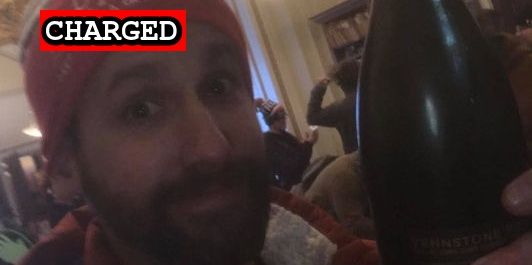
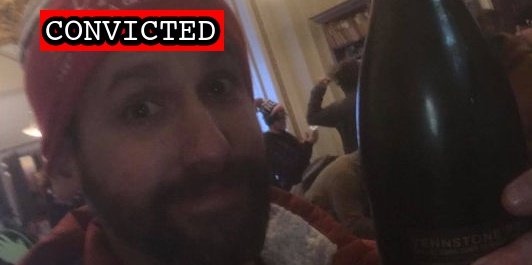
Add latest plea and sentencing

Changed region(s): [[0.0602, 0.0302, 0.4211, 0.2113]]

diff --git a/commands/suspect-sentence.ts b/commands/suspect-sentence.ts
@@ -23,6 +23,7 @@ const sentence = async () => {
   suspect.status = "Sentenced";
   suspect.sentencing = cmd.date;
   suspect.sentenced = cmd.date;
+  suspect.sentence = ["$500 restitution"];
 
   updateSuspect(suspect);
 

diff --git a/docs/_suspects/jason-riddle.md b/docs/_suspects/jason-riddle.md
@@ -4,16 +4,16 @@ lastName: Riddle
 hashtag: JasonRiddle
 aka:
 residence: New Hampshire
-status: Charged
+status: Convicted
 date: 2021-02-05
 charged: 2021-02-05
 indicted:
-convicted: 
-sentenced: 
-dismissed: 
+convicted: 2021-11-18
+sentenced:
+dismissed:
 deceased:
-plea_hearing:
-sentencing:
+plea_hearing: 2021-11-18
+sentencing: 2022-02-17
 age: 32
 occupation: Letter Carrier, Corrections Officer (Former)
 affiliations: U.S military, Federal Government
@@ -34,8 +34,17 @@ published: true
 caseNumber: 1:21-cr-304
 videos:
 charges:
+  - code: 18 USC § 5104(e)(2)(G)
+    title: Parading, demonstrating or picketing in a Capitol building
+    url: https://www.law.cornell.edu/uscode/text/40/5104
+    felony: false
+  - code: 18 USC § 641
+    title: Theft of Government Property
+    url: https://www.law.cornell.edu/uscode/text/18/641
+    felony: false
 sentence:
 ---
+
 - [News Report](https://www.thedailybeast.com/wine-drinking-rioter-jason-riddle-sold-stolen-senate-doc-for-dollar40-feds)
 - [Statement of Facts](https://www.justice.gov/usao-dc/case-multi-defendant/file/1371501/download)
 - [Self Incrimination (Interview)](http://postalnews.com/blog/2021/01/09/nh-letter-carrier-who-chugged-wine-amid-deadly-capitol-riot-says-he-has-no-regrets/)

diff --git a/docs/_suspects/david-mish.md b/docs/_suspects/david-mish.md
@@ -4,12 +4,12 @@ lastName: Mish
 hashtag: DavidMish
 aka:
 residence: Wisconsin
-status: Convicted
+status: Sentenced
 date: 2021-01-15
 charged: 2021-01-15
 indicted:
 convicted: 2021-08-30
-sentenced:
+sentenced: 2021-11-18
 dismissed:
 deceased:
 plea_hearing: 2021-08-30
@@ -34,12 +34,15 @@ published: true
 caseNumber: 1:21-cr-112
 videos:
 charges:
-- code: 18 USC § 5104(e)(2)(G)
-  title: Parading, Demonstrating or Picketing in a Capitol Building
-  url: https://www.law.cornell.edu/uscode/text/40/5104
-  felony: false
+  - code: 18 USC § 5104(e)(2)(G)
+    title: Parading, Demonstrating or Picketing in a Capitol Building
+    url: https://www.law.cornell.edu/uscode/text/40/5104
+    felony: false
 sentence:
+  - 30 days in prison
+  - $500 restitution
 ---
+
 - [News Report](https://www.jsonline.com/story/news/local/2021/01/15/david-charles-mish-west-allis-wisconsin-charged-capitol-riot/4186655001/gs)
 - [Complaint](https://www.justice.gov/opa/page/file/1355491/download)
 - [Statement of Facts](https://www.justice.gov/usao-dc/case-multi-defendant/file/1430146/download)
